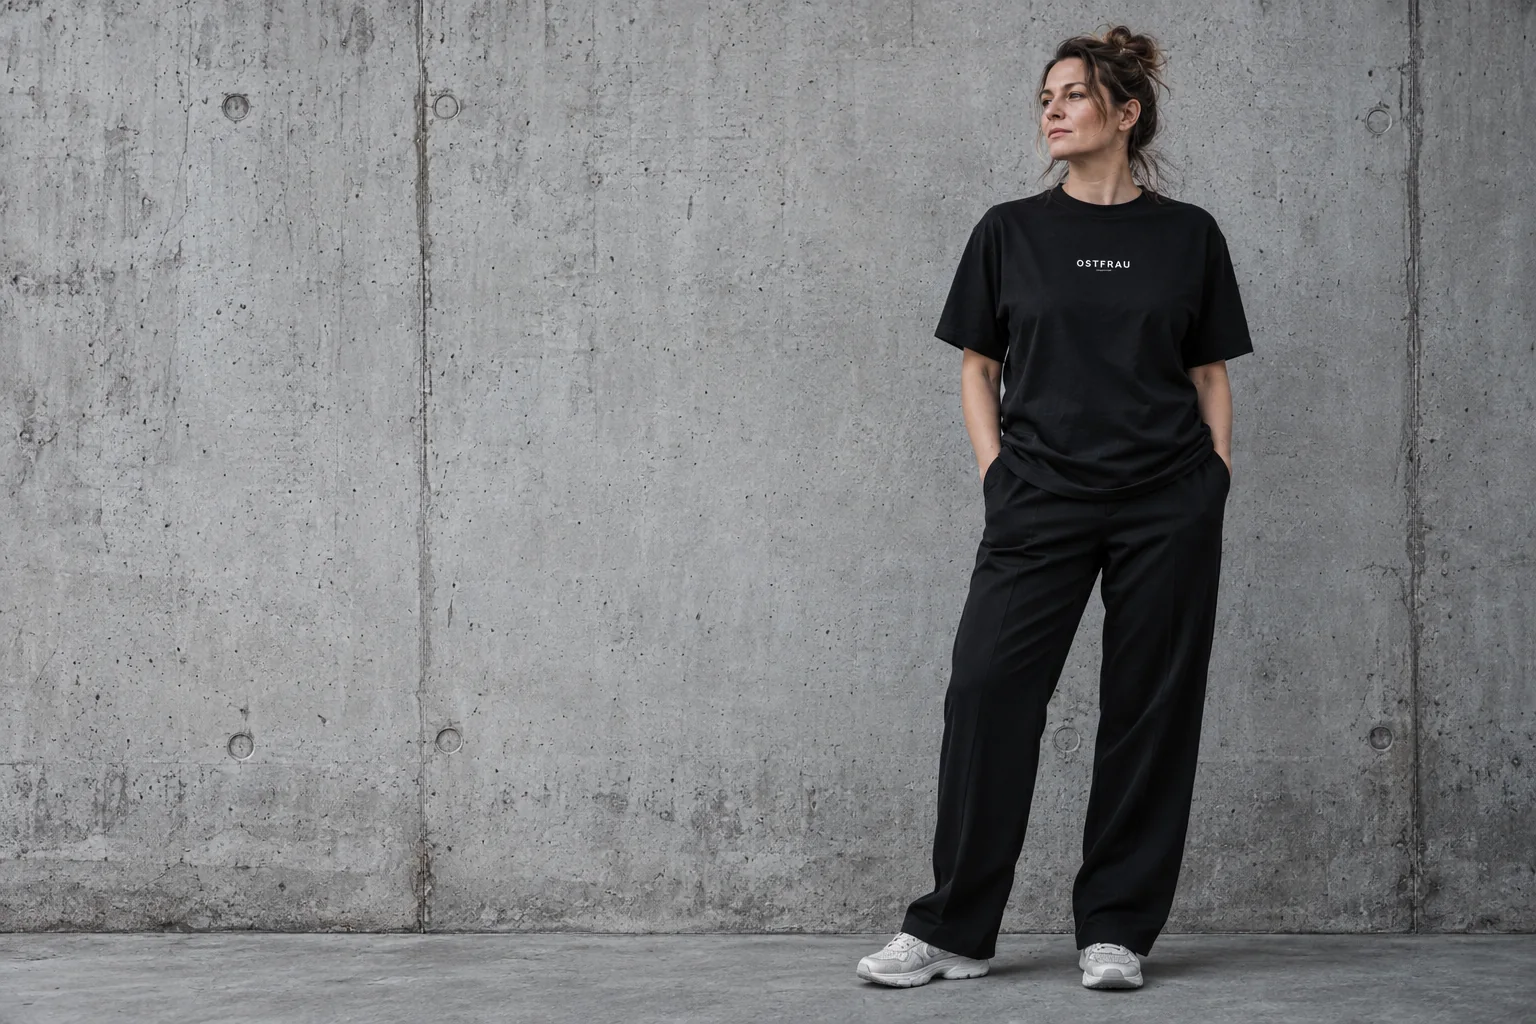
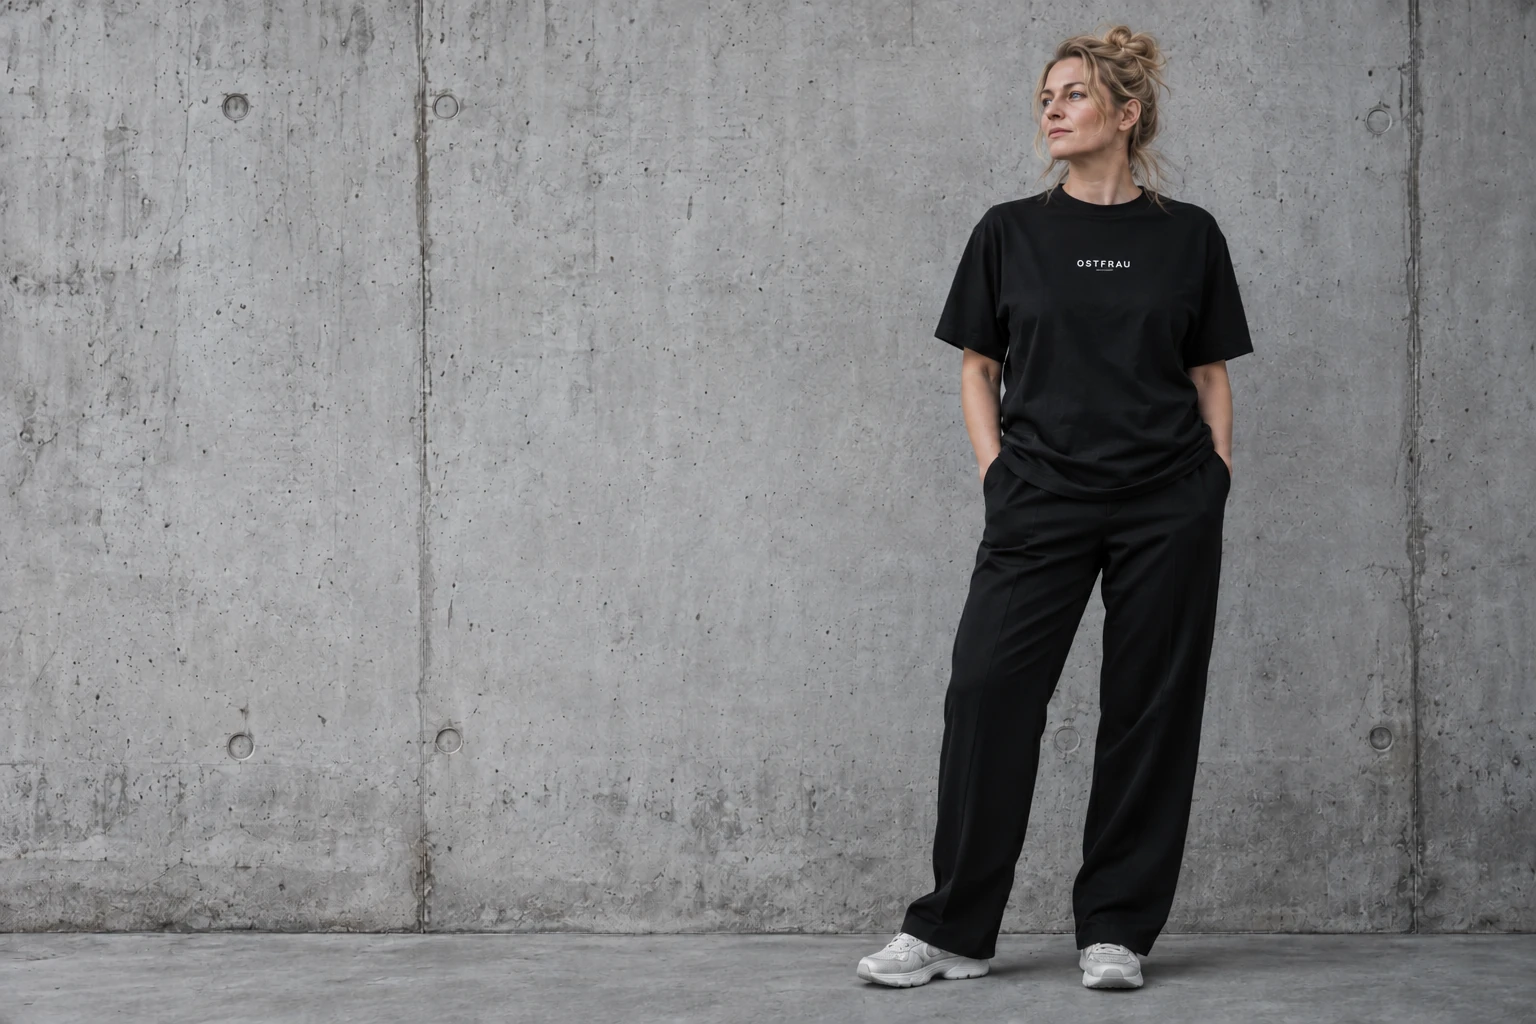
Add blonde editorial variants and blue eyes to OST imagery

Changed region(s): [[0.6562, 0.0312, 0.7812, 0.1875], [0.0938, 0.875, 0.1562, 0.9062], [0.0312, 0.875, 0.0625, 0.9062]]

diff --git a/assets/PROVENANCE.md b/assets/PROVENANCE.md
@@ -1,5 +1,36 @@
 # OST concept image provenance
 
+## Hair and eye color variants — 2026-09-10
+
+User-requested edits using the built-in image tool: two calls, one per source photo. Both edited outputs were visually inspected: lighter hair, natural eye detail, pose, concrete background and chest lettering preserved. OSTFRAU uses light blonde hair and blue eyes; OSTMANN uses sandy dark blonde hair with muted natural eyes. These remain fictional design concepts. Original brown-haired PNGs are preserved as alternatives.
+
+The current `theme/assets/ostfrau-editorial.webp` and `theme/assets/ostmann-editorial.webp` use these edits. WebP conversion only, 1536 × 1024, quality 90.
+
+### ostfrau-editorial-blonde-blue-eyes.png
+
+Edit target: `assets/originals/ostfrau-editorial.png`
+
+Saved output: `assets/originals/ostfrau-editorial-blonde-blue-eyes.png`
+
+Exact edit prompt:
+
+```text
+Use case: identity-preserve. Edit target: the supplied OSTFRAU fashion photograph. Change ONLY the woman's hair to natural light golden blonde with believable darker blonde roots and fine individual strands, keeping the same loosely tied up hairstyle, and change her irises to beautiful clear natural blue with subtle realistic catchlights. The blue should be perceptible in the face without looking neon or digitally painted. Preserve her facial identity, adult age, expression, skin tone and texture, pose, anatomy, framing, camera angle, black outfit, shoes, exact white O-S-T-F-R-A-U chest lettering and concrete background. Preserve the cold muted editorial lighting, realistic photography, 3:2 landscape composition and empty left side for website text. No text overlays, no new objects, no glamour retouching. Output one standalone edited photo.
+```
+
+### ostmann-editorial-dark-blonde.png
+
+Edit target: `assets/originals/ostmann-editorial.png`
+
+Saved output: `assets/originals/ostmann-editorial-dark-blonde.png`
+
+Exact edit prompt:
+
+```text
+Use case: identity-preserve. Edit target: the supplied OSTMANN fashion photograph. Change ONLY the man's hair to natural sandy dark blonde, clearly lighter than the original brown, retaining the wavy haircut and realistic fine hair strands. Lighten his beard subtly to a matching natural dark blonde-brown. Preserve natural hazel/brown eyes; this variant must have a different eye color from the blue-eyed female image in the series. Preserve his facial identity, adult age, expression, skin tone and texture, pose, anatomy, framing, black outfit, exact white O-S-T-M-A-N-N chest lettering and raw concrete background. Keep the cold muted editorial lighting, realistic photography, 3:2 landscape composition and spacious empty left side. No text overlays, no new objects, no glamour retouching. Output one standalone edited photo.
+```
+
+
 Generated on 2026-09-10 using the built-in `image_gen.imagegen` tool. Exactly three generation calls, one per asset; no variants or retries. No input/reference images. These are fictional concept images, not documentation of real people or products.
 
 All three outputs were visually inspected. OSTMANN and OSTFRAU spelling is correct; both people are right-weighted with generous concrete negative space. The woman is framed full-body (wider than requested upper legs), which preserves crop flexibility. The product still life has the three requested items and correct OST. wordmarks. No political or DDR symbols or advertising/UI overlays observed. No edits or transformations applied.
@@ -146,4 +177,3 @@ Lighting/mood: cool clean studio lighting, minimal natural hard-edged shadow, re
 Text (verbatim): "OST." in small white clean uppercase sans-serif letters embroidered on the front, regular flat stitch embroidery; spell O-S-T followed by a period exactly.
 Constraints: no people, no mannequin visible, no hands, no UI, no advertising overlay, no additional garments or props, no extra text, no labels or watermark, no political or DDR symbols. This is an explicitly fictional design-concept catalog shot, not actual production or actual product documentation. Do not add claims about manufacturing.
 ```
-

diff --git a/docs/STATUS.md b/docs/STATUS.md
@@ -13,7 +13,7 @@ Der vollständige Stand wurde erfolgreich nach https://github.com/johanr-blip/os
 - Native Shopify-Formulare vorbereitet. Warteliste und Verkauf im Grundzustand deaktiviert.
 - Preorder-Integration über App-Blöcke vorgesehen, aber keine App installiert oder getestet.
 - Die drei Produktzustände Warteliste, Preorder und Live sind vorgesehen; die Bundle-Section kann echte Shopify-Bundle-Produkte verlinken. Diese Bundle-Produkte sind noch nicht angelegt.
-- Sieben KI-Konzeptbilder, optimierte Bilddateien, lokale Archivo-Schrift und Provenienzdokumentation.
+- Sieben ursprüngliche KI-Konzeptbilder plus zwei gewünschte Haar-/Augenfarbenvarianten: OSTFRAU hellblond mit blauen Augen, OSTMANN dunkelblond. Die aktuellen Hero-WebPs verwenden die Varianten; ursprüngliche PNGs bleiben erhalten. Lokale Archivo-Schrift und Provenienzdokumentation liegen bei.
 - Shopify: Theme `205871546705` unveröffentlicht hochgeladen, zehn Produktentwürfe, drei Collections, 13 neue Seiten, vier Metaobject-Definitionen und zehn Produkt-Metafield-Definitionen erstellt.
 - Separate interne Rechteakte mit Storefront-Zugriff NONE.
 - Kalkulation, Markengrundlage, Launchplan, Originalbrief und modellunabhängige Entwicklerübergabe.

diff --git a/docs/CHANGELOG.md b/docs/CHANGELOG.md
@@ -1,5 +1,12 @@
 # Änderungsprotokoll
 
+## 2026-09-10 — Blonde Editorial-Varianten
+
+- OSTFRAU-Aufnahme mit natürlich hellblondem Haar und blauen Augen; OSTMANN mit dunkelblondem Haar und dezent angepasstem Bart.
+- Kleidung, Wortmarken, Bildaufbau und kalte Editorial-Gestaltung beibehalten. Ursprüngliche PNGs als Alternativen erhalten; neue PNGs und genaue Edit-Prompts ergänzt.
+- Aktuelle Hero-WebPs ersetzt und lokale Vorschau neu erzeugt. Bildvarianten visuell geprüft; 29 Vorschauseiten und 868 lokale Referenzen erfolgreich geprüft. Theme-ZIP neu erzeugt.
+- Beide Bilddateien gezielt auf Theme `205871546705` hochgeladen; Rolle vor und nach Upload `unpublished`. Lokaler Vorschau-Server bedient nun direkt `preview/dist/` dieses Repositorys.
+
 ## 2026-09-10 — Initialer OST-Projektstand
 
 - Eigenes Shopify OS 2.0 Theme mit zwei Markenwelten, Header/Switch, Hero, Produktbereichen und Editorial-Sections gebaut.

diff --git a/docs/DECISIONS.md b/docs/DECISIONS.md
@@ -13,6 +13,7 @@ Stand: 10.09.2026.
 | 10 Produktentwürfe | Tee/Hoodie/Cap je Markenwelt plus Bucket Hat, Gymbag, Tote und Poster |
 | Heavy Tee, Hoodie und Cap im primären Produktbereich | Kleines Einstiegsangebot; restliche Ideen nachgeordnet |
 | KI-Konzeptbilder gekennzeichnet | Keine realen Muster vorhanden; nicht als Produktevidenz einsetzen |
+| Blonde Varianten und teilweise blaue Augen in der Bildserie | Nutzerwunsch nach mehr Variation vom 10.09.2026; ursprüngliche Aufnahmen als Alternativen erhalten |
 | Archiv/Stimmen zunächst mit ehrlichem Leerzustand | Keine Rechtefreigaben, Interviews oder lizenzierten Porträts vorhanden |
 | Rechteakte getrennt von öffentlichem Metaobject | Schutz interner Rechte-/Einwilligungsdaten auf API-Ebene |
 | Shopify-Kundenformular für spätere Warteliste | Minimaler Stack; Double Opt-in muss im Shop aktiviert werden |
